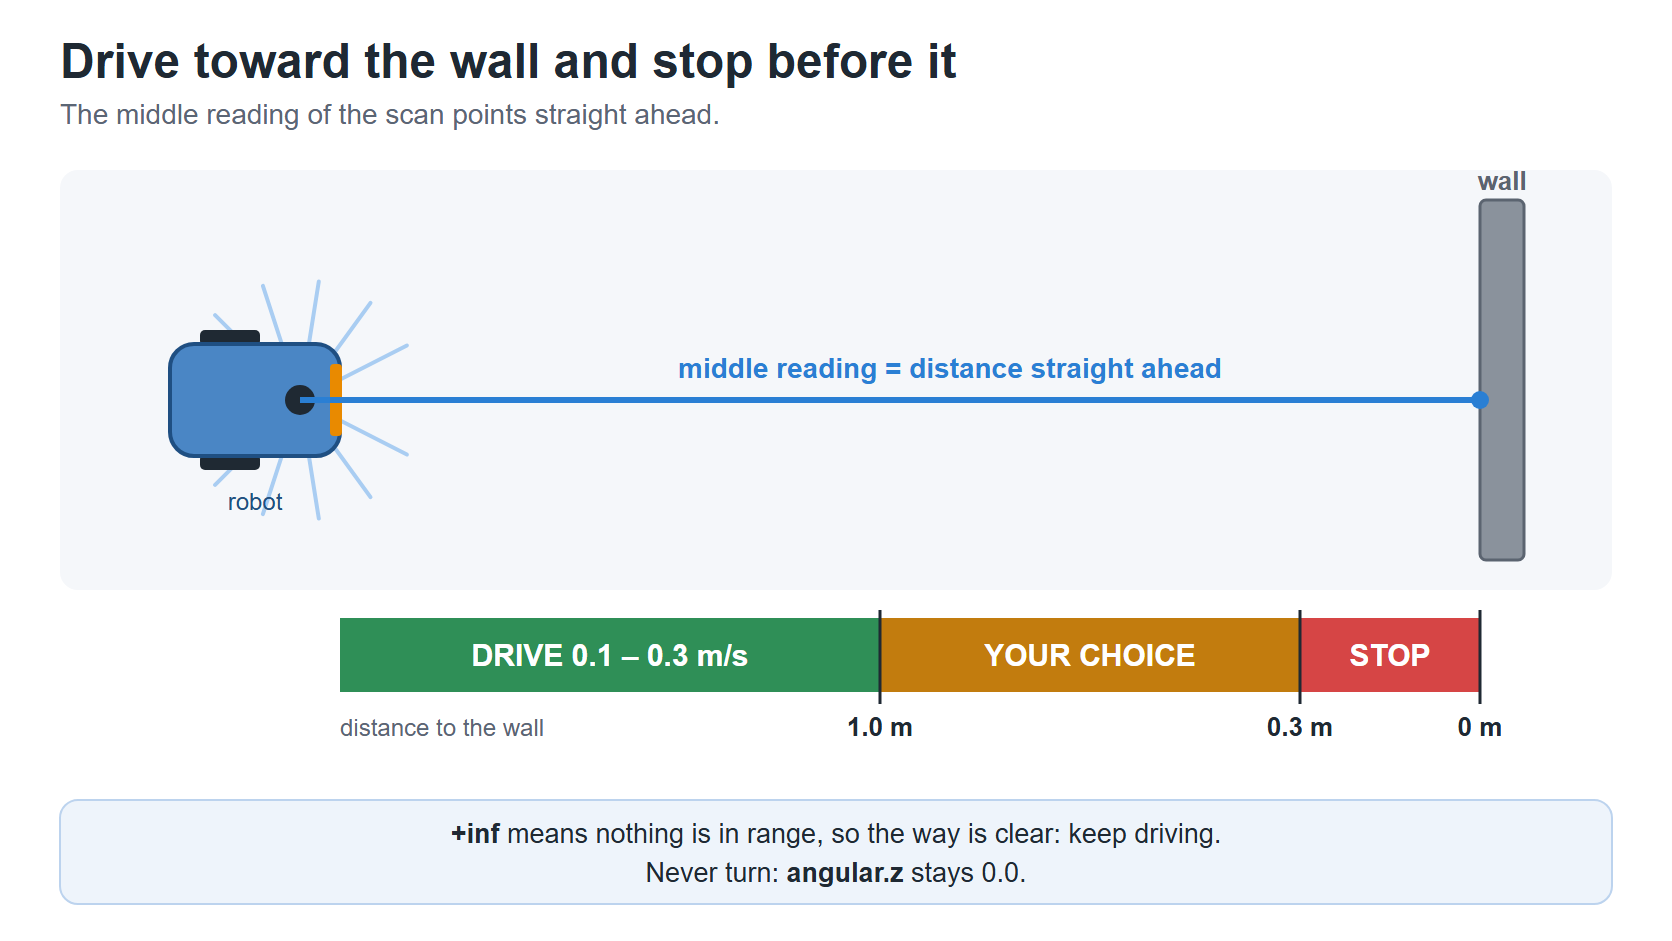
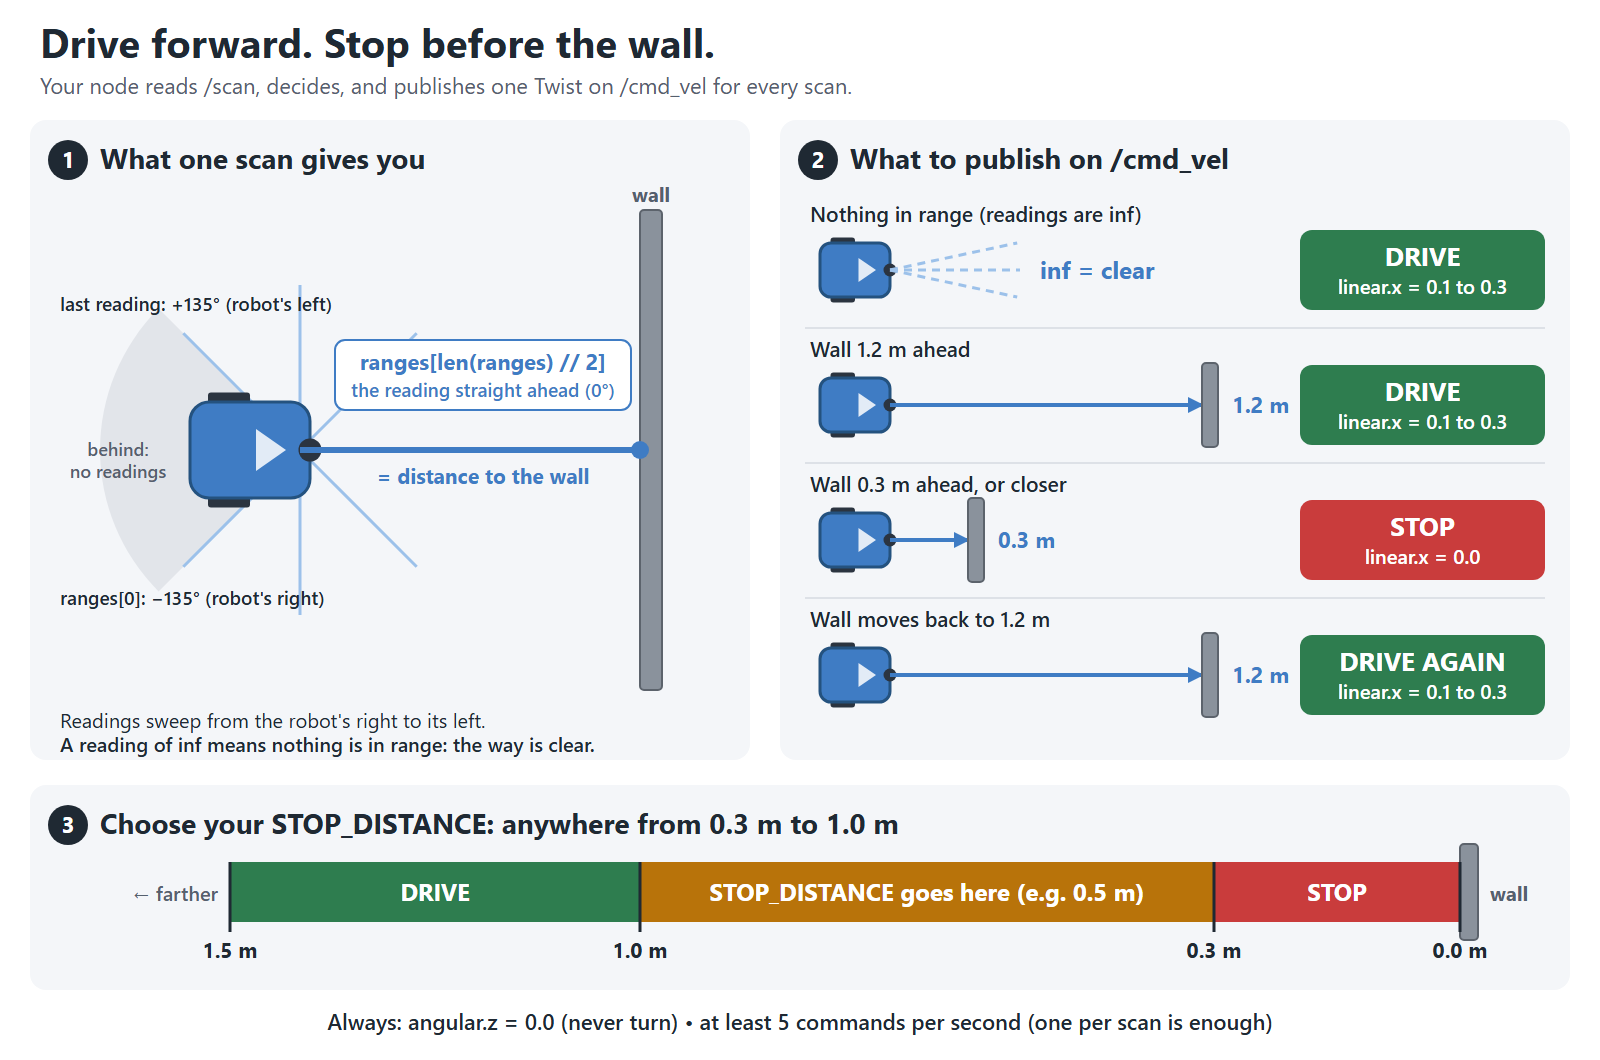
Clarify the Assignment 7 question and diagram
Students found the first version hard to follow. Version 2 redraws the
diagram in three numbered parts (what one scan gives you, what to publish
in each tested situation, and where STOP_DISTANCE may go on a to-scale
distance bar) and reorders the question to match: a short goal, the rule
the node must follow, seven task steps, separate rules, and the six test
situations as a list.

Grading, tests, limits and the maintained answer are unchanged. The
assignment version moves from 1 to 2 so older drafts are not loaded into
the new workspace.

Changed region(s): [[0.0312, 0.1233, 0.9688, 0.9862], [0.0, 0.0308, 0.5938, 0.1849], [0.6562, 0.2465, 0.7188, 0.2774]]

diff --git a/backend/tests/test_app.py b/backend/tests/test_app.py
@@ -339,7 +339,7 @@ def test_lists_all_assignments_in_numeric_order_without_private_fields(client):
     assert response.status_code == 200
     assignments = response.json()["assignments"]
     assert [assignment["id"] for assignment in assignments] == [1, 2, 3, 4, 5, 6, 7]
-    assert [assignment["version"] for assignment in assignments] == [17, 16, 18, 16, 12, 12, 1]
+    assert [assignment["version"] for assignment in assignments] == [17, 16, 18, 16, 12, 12, 2]
     assert all(assignment["stable_id"] for assignment in assignments)
     assert all(assignment["solution_html"] == "" for assignment in assignments)
     assert all(assignment["vals"] == {} for assignment in assignments)

diff --git a/backend/tests/test_assignment_repository.py b/backend/tests/test_assignment_repository.py
@@ -30,7 +30,7 @@ def test_newer_seed_versions_upgrade_existing_local_assignments():
         AssignmentRepository(session).sync_seed_assignments()
 
         assignments = AssignmentRepository(session).list_all()
-        assert [item.version for item in assignments] == [17, 16, 18, 16, 12, 12, 1]
+        assert [item.version for item in assignments] == [17, 16, 18, 16, 12, 12, 2]
         for assignment in assignments:
             assert assignment.data_schema_version == 1
             assert assignment.execution_settings["runtime"]
